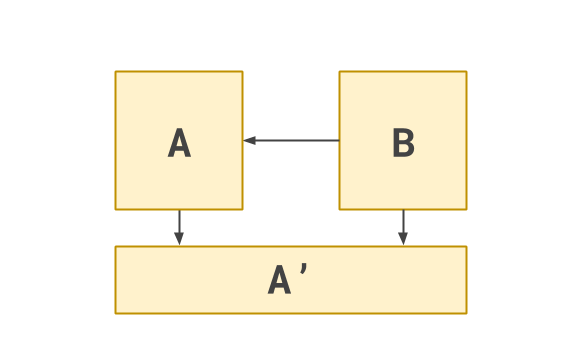
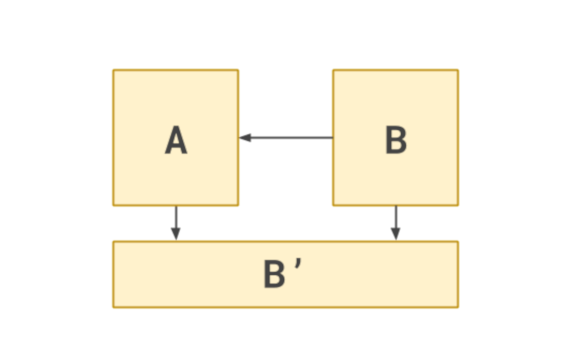
Correct directions of imports in post

diff --git a/_posts/2019-04-15-why-dependency-inversion.md b/_posts/2019-04-15-why-dependency-inversion.md
@@ -89,7 +89,7 @@ subsystems. Instead, it is a single, large system - and large systems tend to be
 The crucial problem here is that the modules, while appearing separate, are *tightly coupled* by their dependencies
 upon one other. Let's take two modules as an example:
 
-{% include content_illustration.html image="why-di/a_b_cycle.png" alt="Arrows pointing in both directions between A and B" %}
+{% include content_illustration.html image="why-di/a-b-cycle.png" alt="Arrows pointing in both directions between A and B" %}
 
 In this diagram we see that **A** depends on **B**, but **B** also depends upon **A**. It's a
 circular dependency. As a result, these two modules are in fact no less complicated than a single module.
@@ -100,13 +100,13 @@ How can we improve things?
 Often, removing the cycle is a simple case of extracting a shared dependency into its own module. Take these two
 modules:
 
-{% include content_illustration.html image="why-di/a-with-inner.png" alt="A with an inner component A&prime;, which both B and the rest of A depend on" %}
+{% include content_illustration.html image="why-di/b-with-inner.png" alt="B with an inner component B&prime;, which both A and the rest of B depend on" %}
 
-In this case, the cause of the circular dependency is a submodule within **A**, which we'll call **A&prime;**, that
-both **B** and the rest of **A** depend on. The cycle is easily eliminated by pulling **A&prime;** into its
+In this case, the cause of the circular dependency is a submodule within **B**, which we'll call **B&prime;**, that
+both **A** and the rest of **B** depend on. The cycle is easily eliminated by pulling **B&prime;** into its
 own module.
 
-{% include content_illustration.html image="why-di/inner-extracted.png" alt="B with arrows pointing to A and A&prime;, and A also pointing to A&prime;" %}
+{% include content_illustration.html image="why-di/inner-extracted.png" alt="A with arrows pointing to B and B&prime;, and B also pointing to B&prime;" %}
 
 This refactoring is usually a simple matter of moving some code from one file to another. This isn't dependency inversion,
 but it's an option you should consider first, if it's possible.
